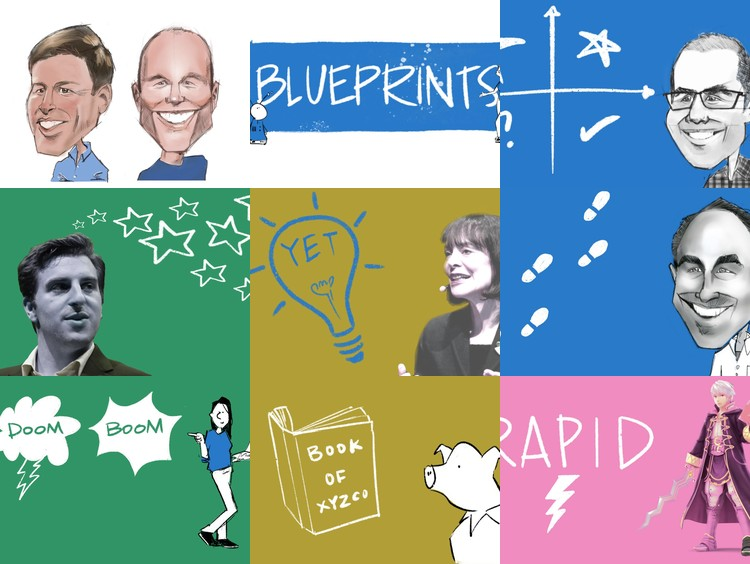
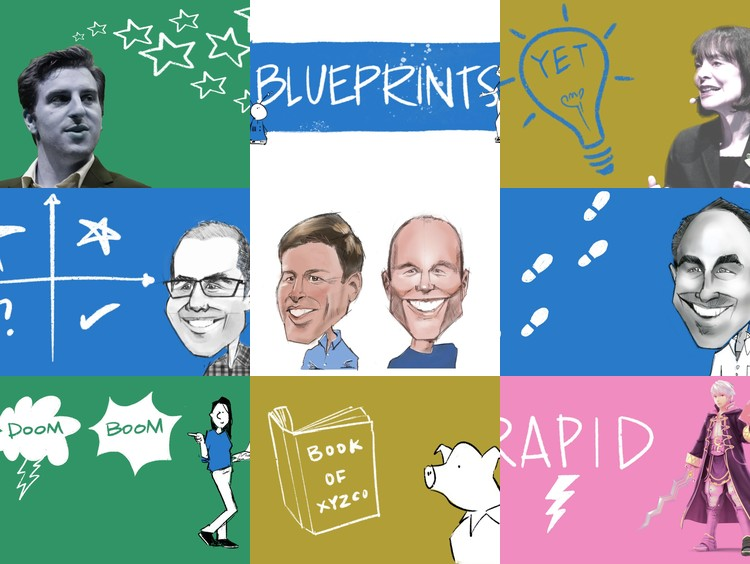
Move top-left to middle-middle, top-right to middle-left in Blueprints quilt

diff --git a/backend/create_blueprints_quilt.py b/backend/create_blueprints_quilt.py
@@ -19,15 +19,15 @@ PADDING = 0  # No padding - seamless images with no borders
 # Image URLs - All 9 Blueprints images
 # Grid order: 0=top-left, 1=top-middle, 2=top-right, 3=middle-left, 4=middle-middle, 5=middle-right, 6=bottom-left, 7=bottom-middle, 8=bottom-right
 BLUEPRINTS_IMAGES = [
-    'https://images.spr.so/cdn-cgi/imagedelivery/j42No7y-dcokJuNgXeA0ig/c43fe8f7-fff1-4cff-bfef-55024199d217/Untitled_Artwork_11/w=750,quality=90,fit=scale-down',  # 0: bottom-right → top-left
+    'https://images.spr.so/cdn-cgi/imagedelivery/j42No7y-dcokJuNgXeA0ig/14d4fdbb-b35b-4c62-ac49-676efed97ed7/Untitled_Artwork_9/w=1920,quality=90,fit=scale-down',  # 0: top-left (was middle-left)
     'https://images.spr.so/cdn-cgi/imagedelivery/j42No7y-dcokJuNgXeA0ig/27e2c3b5-02ec-4c8c-9533-d31d55a94cae/Untitled_Artwork_60/w=1920,quality=90,fit=scale-down',  # 1: top-middle (unchanged)
-    'https://images.spr.so/cdn-cgi/imagedelivery/j42No7y-dcokJuNgXeA0ig/56bd863b-ec44-4054-8dc6-13e42789b980/Untitled_Artwork_58/w=1920,quality=90,fit=scale-down',  # 2: top-left → top-right
-    'https://images.spr.so/cdn-cgi/imagedelivery/j42No7y-dcokJuNgXeA0ig/14d4fdbb-b35b-4c62-ac49-676efed97ed7/Untitled_Artwork_9/w=1920,quality=90,fit=scale-down',  # 3: middle-left (unchanged)
-    'https://images.spr.so/cdn-cgi/imagedelivery/j42No7y-dcokJuNgXeA0ig/83118d4d-c080-4482-8223-1bf51787efd0/IMG_0890/w=1920,quality=90,fit=scale-down',  # 4: middle-middle (unchanged)
+    'https://images.spr.so/cdn-cgi/imagedelivery/j42No7y-dcokJuNgXeA0ig/83118d4d-c080-4482-8223-1bf51787efd0/IMG_0890/w=1920,quality=90,fit=scale-down',  # 2: top-right (was middle-middle)
+    'https://images.spr.so/cdn-cgi/imagedelivery/j42No7y-dcokJuNgXeA0ig/56bd863b-ec44-4054-8dc6-13e42789b980/Untitled_Artwork_58/w=1920,quality=90,fit=scale-down',  # 3: top-right → middle-left
+    'https://images.spr.so/cdn-cgi/imagedelivery/j42No7y-dcokJuNgXeA0ig/c43fe8f7-fff1-4cff-bfef-55024199d217/Untitled_Artwork_11/w=750,quality=90,fit=scale-down',  # 4: top-left → middle-middle
     'https://images.spr.so/cdn-cgi/imagedelivery/j42No7y-dcokJuNgXeA0ig/29abc44f-a827-4918-b226-cf918bc19b89/Untitled_Artwork_83/w=1920,quality=90,fit=scale-down',  # 5: middle-right (unchanged)
     'https://images.spr.so/cdn-cgi/imagedelivery/j42No7y-dcokJuNgXeA0ig/34030e28-f77e-4cd5-b856-36d9e13a7e14/Untitled_Artwork_6/w=1920,quality=90,fit=scale-down',  # 6: bottom-left (unchanged)
     'https://images.spr.so/cdn-cgi/imagedelivery/j42No7y-dcokJuNgXeA0ig/b32cc9fc-fd01-4422-8b49-08af46cd6f21/Untitled_Artwork_19/w=1920,quality=90,fit=scale-down',  # 7: bottom-middle (unchanged)
-    'https://images.spr.so/cdn-cgi/imagedelivery/j42No7y-dcokJuNgXeA0ig/0c9a8b96-e591-42f2-b456-2726d0f9984c/Untitled_Artwork_24/w=1920,quality=90,fit=scale-down',  # 8: bottom-right (was top-left, now needs to be filled)
+    'https://images.spr.so/cdn-cgi/imagedelivery/j42No7y-dcokJuNgXeA0ig/0c9a8b96-e591-42f2-b456-2726d0f9984c/Untitled_Artwork_24/w=1920,quality=90,fit=scale-down',  # 8: bottom-right (unchanged)
 ]
 
 # Special handling for images that need different crop positioning
